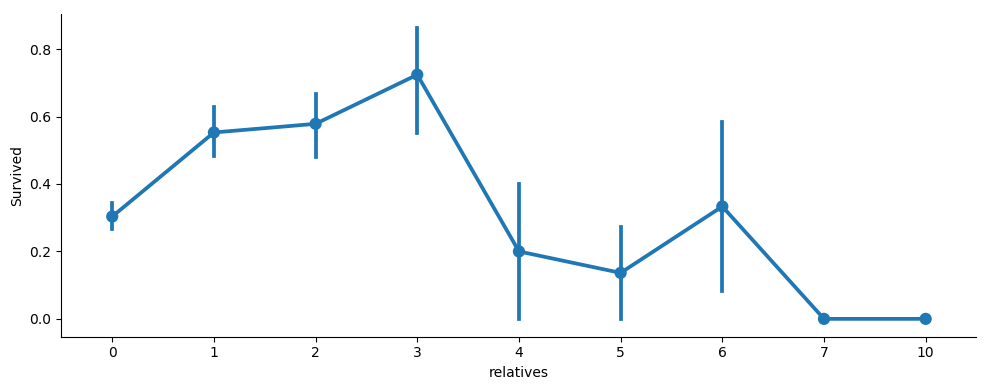
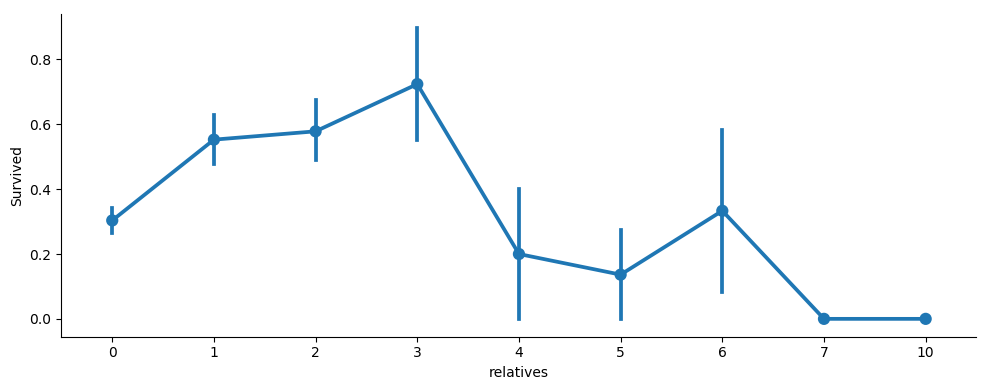
changed age variable

diff --git a/titanic_prediction.py b/titanic_prediction.py
@@ -75,13 +75,6 @@ data = [train_df, test_df]
 for i in data:
 	i['relatives'] = i['SibSp'] + i['Parch']
 
-#drop the SibSp and Parch variables now that we took
-#what we needed
-#train_df = train_df.drop(['SibSp'], axis = 1)
-#test_df = test_df.drop(['SibSp'], axis = 1)
-#train_df = train_df.drop(['Parch'], axis = 1)
-#test_df = test_df.drop(['Parch'], axis = 1)
-
 #make pinpoint plot for likelihood of
 #survival based on amount of relatives onboard
 relative_nunber_pinpoint = plt.figure()
@@ -150,46 +143,44 @@ test_df = test_df.drop(['Embarked'], axis = 1)
 #Gender and pclass correlations. Set empty 
 #cells to the median value of each gender 
 #for each pclass
-guess_ages = np.zeros((2, 3))
+#guess_ages = np.zeros((2, 3))
 
-for i in data:
-	for j in range(0, 2):
-		for k in range(0, 3):
-			age_guess_df = i[(i['Sex'] == j) & 
-			(i['Pclass'] == k+1)]['Age'].dropna()
+#for dataset in data:
+#	for i in range(0, 2):
+#		for j in range(0, 3):
+#			guess_df = dataset[(dataset['Sex'] == i) & 
+#			(dataset['Pclass'] == j+1)]['Age'].dropna()
+#
+#			age_guess = guess_df.median()
+#			guess_ages[i, j] = (age_guess / 0.5 + 0.5) * 0.5
 
-			age_guess = age_guess_df.median()
-			guess_ages[j, k] = (age_guess / 0.5 + 0.5) * 0.5
+#	for i in range(0, 2):
+#		for j in range(0, 3):
+#			dataset.loc[(dataset.Age.isnull()) & (dataset.Sex == i) & 
+#			(dataset.Pclass == j+1), 'Age'] = guess_ages[i, j]
+#
+#	dataset['Age'] = dataset['Age'].astype(float)
 
-	for j in range(0, 2):
-		for k in range(0, 3):
-			i.loc[(i.Age.isnull()) & (i.Sex == j) & 
-			(i.Pclass == k+1), 'Age'] = guess_ages[j, k]
-
-	i['Age'] = i['Age']
+data['Age'].fillna(data['Age'].mean(), inplace = True)
 
 #convert age feature so that passengers within
-#certain ages are group together. Ensure that 
+#certain ages are grouped together. Ensure that 
 #all groups are distributed well
-
-for i in data:
+for dataset in data:
 	i['Age'] = i['Age']
-	i.loc[i['Age'] <= 11, 'Age'] = 0
-	i.loc[(i['Age'] > 11) & (i['Age'] <= 18), 'Age'] = 1
-	i.loc[(i['Age'] > 18) & (i['Age'] <= 22), 'Age'] = 2
-	i.loc[(i['Age'] > 22) & (i['Age'] <= 27), 'Age'] = 3
-	i.loc[(i['Age'] > 27) & (i['Age'] <= 33), 'Age'] = 4
-	i.loc[(i['Age'] > 33) & (i['Age'] <= 40), 'Age'] = 5
-	i.loc[(i['Age'] > 40) & (i['Age'] <= 66), 'Age'] = 6
-	i.loc[(i['Age'] > 66), 'Age'] = 6
+	dataset.loc[dataset['Age'] <= 11, 'Age'] = 0
+	dataset.loc[(dataset['Age'] > 11) & (dataset['Age'] <= 18), 'Age'] = 1
+	dataset.loc[(dataset['Age'] > 18) & (dataset['Age'] <= 22), 'Age'] = 2
+	dataset.loc[(dataset['Age'] > 22) & (dataset['Age'] <= 27), 'Age'] = 3
+	dataset.loc[(dataset['Age'] > 27) & (dataset['Age'] <= 33), 'Age'] = 4
+	dataset.loc[(dataset['Age'] > 33) & (dataset['Age'] <= 40), 'Age'] = 5
+	dataset.loc[(dataset['Age'] > 40) & (dataset['Age'] <= 66), 'Age'] = 6
+	dataset.loc[(dataset['Age'] > 66), 'Age'] = 6
 	
-
-
-
 print(train_df.apply(lambda x: sum(x.isnull()), axis = 0))
 
 
-#print(train_df)
+print(train_df)
 
 #print('------------------------------------------------------------------')
 
@@ -197,10 +188,3 @@ print(train_df.apply(lambda x: sum(x.isnull()), axis = 0))
 
 #print(test_df)
 
-
-
-
-
-
-
- 
